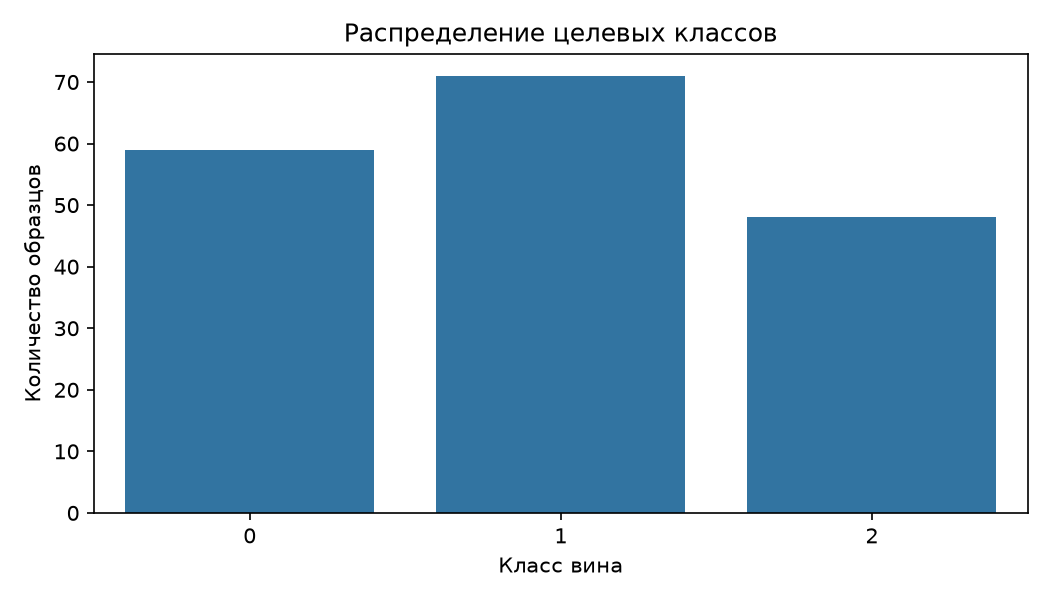
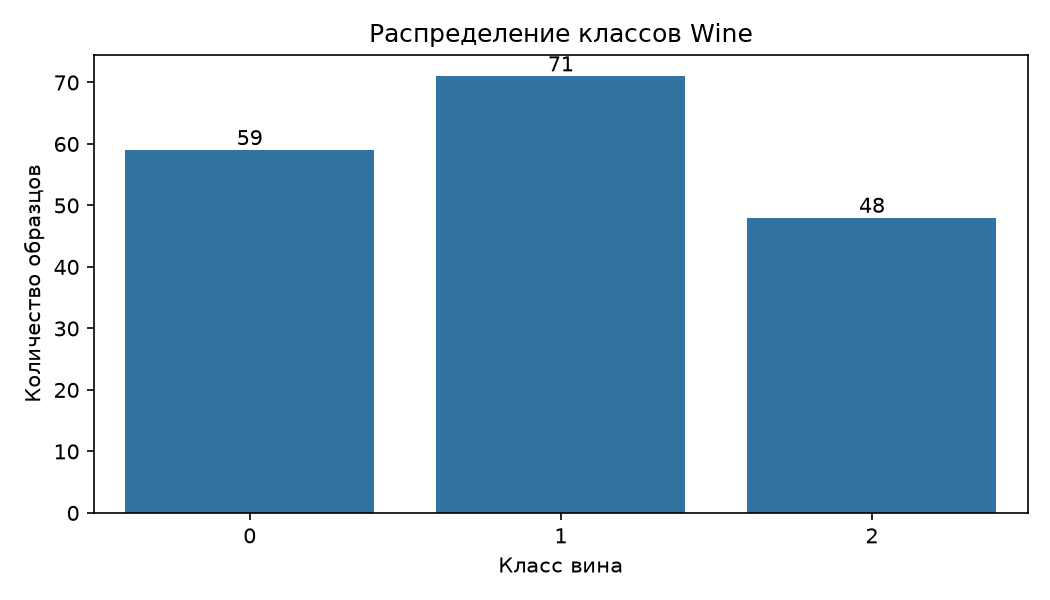
improve: expand lab1 EDA report

diff --git a/src/eda.py b/src/eda.py
@@ -1,15 +1,17 @@
+from datetime import date
 from pathlib import Path
 
 import matplotlib
 
 matplotlib.use("Agg")
+
 import matplotlib.pyplot as plt
 import pandas as pd
 import seaborn as sns
 
 ROOT = Path(__file__).resolve().parents[1]
 DATA_FILE = ROOT / "data" / "raw" / "wine.csv"
-REPORT_DIR = ROOT / "reports" / "LAB1"
+REPORT_DIR = ROOT / "reports" / "Lab1"
 FIGURE_DIR = REPORT_DIR / "figures"
 
 
@@ -17,73 +19,229 @@ def main() -> None:
     REPORT_DIR.mkdir(parents=True, exist_ok=True)
     FIGURE_DIR.mkdir(parents=True, exist_ok=True)
 
-    df = pd.read_csv(DATA_FILE)
-    features = df.drop(columns=["target"])
-    target = df["target"]
+    if not DATA_FILE.exists():
+        raise FileNotFoundError(f"Не найден файл датасета: {DATA_FILE}")
 
-    # Общая статистика признаков
-    stats = features.describe().T
-    stats["missing"] = features.isna().sum()
-    stats["n_unique"] = features.nunique()
-    stats["target_correlation"] = df.corr(numeric_only=True)["target"].drop("target")
+    df = pd.read_csv(DATA_FILE)
+
+    if "target" not in df.columns:
+        raise ValueError("В датасете отсутствует столбец target.")
+
+    features = df.drop(columns="target")
+    target = df["target"]
+    numeric_features = features.select_dtypes(include="number")
+
+    if numeric_features.empty:
+        raise ValueError("В датасете нет числовых признаков для анализа.")
+
+    # 1. Общая статистика признаков
+    stats = numeric_features.describe().T
+    stats["missing"] = numeric_features.isna().sum()
+    stats["n_unique"] = numeric_features.nunique()
+    stats["target_correlation"] = numeric_features.corrwith(target)
     stats.to_csv(REPORT_DIR / "eda_stats.csv", index_label="feature")
 
-    # Распределение классов
+    missing_total = int(df.isna().sum().sum())
+    duplicate_rows = int(df.duplicated().sum())
     class_counts = target.value_counts().sort_index()
+    class_share = target.value_counts(normalize=True).sort_index() * 100
+
+    # 2. Распределение классов
     plt.figure(figsize=(7, 4))
-    sns.barplot(x=class_counts.index.astype(str), y=class_counts.values)
+    ax = sns.barplot(
+        x=class_counts.index.astype(str),
+        y=class_counts.values,
+    )
+    ax.bar_label(ax.containers[0], fmt="%.0f")
     plt.xlabel("Класс вина")
     plt.ylabel("Количество образцов")
-    plt.title("Распределение целевых классов")
+    plt.title("Распределение классов Wine")
     plt.tight_layout()
     plt.savefig(FIGURE_DIR / "class_distribution.png", dpi=150)
     plt.close()
 
-    # Масштабы признаков: среднее и стандартное отклонение
-    scale_stats = features.agg(["mean", "std"]).T.sort_values("std")
+    # 3. Масштабы признаков
+    scale_stats = numeric_features.agg(["mean", "std"]).T
+    scale_stats = scale_stats.sort_values("std")
+    scale_stats.to_csv(REPORT_DIR / "feature_scale_stats.csv", index_label="feature")
+
     plt.figure(figsize=(10, 7))
-    sns.barplot(x=scale_stats["std"], y=scale_stats.index)
+    ax = sns.barplot(
+        x=scale_stats["std"],
+        y=scale_stats.index,
+    )
+    ax.bar_label(ax.containers[0], fmt="%.2f", padding=3, fontsize=8)
     plt.xlabel("Стандартное отклонение")
     plt.ylabel("Признак")
-    plt.title("Разброс значений признаков Wine")
+    plt.title("Масштабы признаков Wine")
     plt.tight_layout()
     plt.savefig(FIGURE_DIR / "feature_scales.png", dpi=150)
     plt.close()
 
-    # Корреляционная матрица
+    # 4. Корреляции
+    corr = df.corr(numeric_only=True)
+
     plt.figure(figsize=(12, 9))
-    sns.heatmap(df.corr(numeric_only=True), cmap="coolwarm", center=0)
-    plt.title("Корреляции признаков и целевого класса")
+    sns.heatmap(
+        corr,
+        cmap="coolwarm",
+        center=0,
+        vmin=-1,
+        vmax=1,
+    )
+    plt.title("Корреляционная матрица")
     plt.tight_layout()
     plt.savefig(FIGURE_DIR / "correlation_heatmap.png", dpi=150)
     plt.close()
 
-    class_share = target.value_counts(normalize=True).sort_index() * 100
-    scale_ratio = features.std().max() / features.std().replace(0, float("nan")).min()
+    # Сильнейшие корреляции между разными признаками
+    feature_corr = numeric_features.corr()
+    upper_mask = pd.DataFrame(
+        True,
+        index=feature_corr.index,
+        columns=feature_corr.columns,
+    )
+    for i, first in enumerate(feature_corr.columns):
+        for second in feature_corr.columns[: i + 1]:
+            upper_mask.loc[first, second] = False
 
-    report = f"""# Лабораторная работа 1 — EDA
+    pairs = feature_corr.where(upper_mask).stack().rename("correlation").reset_index()
+    pairs.columns = ["feature_1", "feature_2", "correlation"]
+    pairs["abs_correlation"] = pairs["correlation"].abs()
+    pairs = pairs.sort_values("abs_correlation", ascending=False)
+    pairs.head(10).to_csv(
+        REPORT_DIR / "top_correlations.csv",
+        index=False,
+    )
 
-## Датасет
-- Источник: `sklearn.datasets.load_wine`
-- Число строк: {df.shape[0]}
-- Число столбцов вместе с target: {df.shape[1]}
-- Число признаков: {features.shape[1]}
-- Пропущенных значений: {int(df.isna().sum().sum())}
+    # 5. Числа для выводов
+    std = numeric_features.std()
+    nonzero_std = std[std > 0]
+    scale_ratio = (
+        nonzero_std.max() / nonzero_std.min() if not nonzero_std.empty else float("nan")
+    )
 
-## Доли классов
-{class_share.to_string(float_format=lambda x: f"{x:.2f}%")}
+    target_corr = numeric_features.corrwith(target).dropna()
+    strongest_target_feature = target_corr.abs().idxmax()
+    strongest_target_corr = target_corr[strongest_target_feature]
 
-## Выводы
-1. Датасет содержит {df.shape[0]} наблюдений и {features.shape[1]} числовых признаков.
-2. Число пропущенных значений в таблице: {int(df.isna().sum().sum())}.
-3. Стандартные отклонения признаков различаются: отношение максимального к минимальному ненулевому стандартному отклонению составляет {scale_ratio:.2f}. Это подтверждает необходимость исследовать масштабирование признаков перед применением методов, чувствительных к масштабу, например kNN и SVM.
-4. Распределение классов показано на графике `figures/class_distribution.png`.
-5. Разброс признаков показан на графике `figures/feature_scales.png`; корреляции — на `figures/correlation_heatmap.png`.
+    strongest_pair = pairs.iloc[0] if not pairs.empty else None
+
+    class_table = pd.DataFrame(
+        {
+            "Количество": class_counts,
+            "Доля, %": class_share.round(2),
+        }
+    )
+    class_table.index.name = "Класс"
+    class_table_md = (
+        class_table.to_markdown()
+        if False
+        else (
+            "| Класс | Количество | Доля, % |\n"
+            "|---:|---:|---:|\n"
+            + "\n".join(
+                f"| {cls} | {int(class_counts.loc[cls])} | {class_share.loc[cls]:.2f} |"
+                for cls in class_counts.index
+            )
+        )
+    )
+
+    missing_by_column = df.isna().sum()
+    columns_with_missing = missing_by_column[missing_by_column > 0]
+    if columns_with_missing.empty:
+        missing_details = "Пропусков нет."
+    else:
+        missing_details = "\n".join(
+            f"- `{col}`: {int(count)}" for col, count in columns_with_missing.items()
+        )
+
+    if strongest_pair is not None:
+        pair_text = (
+            f"`{strongest_pair['feature_1']}` и "
+            f"`{strongest_pair['feature_2']}` "
+            f"(\u03c1 = {strongest_pair['correlation']:.3f})"
+        )
+    else:
+        pair_text = "Недостаточно данных для расчёта."
+
+    report = f"""# Лабораторная работа № 1 — EDA
+
+**Вариант:** 02 — Wine
+**Дата анализа:** {date.today().isoformat()}
+**Источник:** `sklearn.datasets.load_wine`
+**Файл:** `data/raw/wine.csv`
+
+## 1. Паспорт данных
+
+| Показатель | Значение |
+|---|---:|
+| Наблюдения | {len(df)} |
+| Всего столбцов | {df.shape[1]} |
+| Признаки без `target` | {features.shape[1]} |
+| Числовые признаки | {numeric_features.shape[1]} |
+| Целевых классов | {target.nunique()} |
+| Пропущенные значения | {missing_total} |
+| Полные дубликаты строк | {duplicate_rows} |
+
+## 2. Качество данных
+
+**Пропуски по столбцам:** {missing_details}
+
+Полные дубликаты учитываются по всем столбцам, включая `target`.
+Выбросы автоматически не удалялись: их наличие само по себе не означает ошибку данных.
+
+## 3. Распределение классов
+
+{class_table_md}
+
+![Распределение классов](figures/class_distribution.png)
+
+## 4. Масштабы признаков
+
+Отношение максимального стандартного отклонения к минимальному ненулевому: **{scale_ratio:.2f}**.
+
+Признак с наибольшим стандартным отклонением: **{std.idxmax()}** ({std.max():.3f}).
+
+Признак с наименьшим ненулевым стандартным отклонением: **{nonzero_std.idxmin() if not nonzero_std.empty else "нет"}** ({nonzero_std.min():.3f}).
+
+![Масштабы признаков](figures/feature_scales.png)
+
+## 5. Связи между признаками
+
+Наибольшая по модулю корреляция между парами признаков: {pair_text}.
+
+Наибольшая по модулю корреляция числового признака с `target`:
+**{strongest_target_feature}** (коэффициент корреляции Пирсона = {strongest_target_corr:.3f}).
+
+Корреляция не доказывает причинно-следственную связь. Числовой код `target` также не следует трактовать как непрерывную величину.
+
+![Корреляционная матрица](figures/correlation_heatmap.png)
+
+## 6. Выводы
+
+1. В наборе данных **{len(df)} наблюдений** и **{numeric_features.shape[1]} числовых признаков**.
+2. Обнаружено **{missing_total} пропущенных значений**; число полных дубликатов — **{duplicate_rows}**.
+3. Отношение стандартных отклонений равно **{scale_ratio:.2f}**, поэтому перед использованием kNN и SVM следует проверить стандартизацию признаков.
+4. Наибольшая корреляция с числовым кодом целевого класса у признака **{strongest_target_feature}**: **{strongest_target_corr:.3f}**; это описательная связь, а не доказательство причинности.
+5. Наиболее сильно связанные между собой признаки: {pair_text}. Полный список сохранён в `top_correlations.csv`.
+
+## 7. Артефакты и воспроизводимость
+
+- `eda_stats.csv` — описательная статистика и корреляция с `target`.
+- `feature_scale_stats.csv` — средние и стандартные отклонения признаков.
+- `top_correlations.csv` — десять наиболее сильных корреляций между признаками.
+- `figures/class_distribution.png` — распределение классов.
+- `figures/feature_scales.png` — масштабы признаков.
+- `figures/correlation_heatmap.png` — корреляционная матрица.
+
+Для повторного построения отчёта запустите `python src/eda.py` из корня проекта.
 """
+
     (REPORT_DIR / "lab1_report.md").write_text(report, encoding="utf-8")
 
     print(f"Данные: {df.shape[0]} строк, {df.shape[1]} столбцов")
-    print(f"Пропущено значений: {int(df.isna().sum().sum())}")
+    print(f"Пропущено значений: {missing_total}")
     print(f"Отчёт: {REPORT_DIR / 'lab1_report.md'}")
     print(f"Статистика: {REPORT_DIR / 'eda_stats.csv'}")
     print(f"Графики: {FIGURE_DIR}")

diff --git a/reports/LAB1/lab1_report.md b/reports/LAB1/lab1_report.md
@@ -1,21 +1,75 @@
-# Лабораторная работа 1 — EDA
+# Лабораторная работа № 1 — EDA
 
-## Датасет
-- Источник: `sklearn.datasets.load_wine`
-- Число строк: 178
-- Число столбцов вместе с target: 14
-- Число признаков: 13
-- Пропущенных значений: 0
+**Вариант:** 02 — Wine
+**Дата анализа:** 2026-10-26
+**Источник:** `sklearn.datasets.load_wine`
+**Файл:** `data/raw/wine.csv`
 
-## Доли классов
-target
-0   33.15%
-1   39.89%
-2   26.97%
+## 1. Паспорт данных
 
-## Выводы
-1. Датасет содержит 178 наблюдений и 13 числовых признаков.
-2. Число пропущенных значений в таблице: 0.
-3. Стандартные отклонения признаков различаются: отношение максимального к минимальному ненулевому стандартному отклонению составляет 2530.33. Это подтверждает необходимость исследовать масштабирование признаков перед применением методов, чувствительных к масштабу, например kNN и SVM.
-4. Распределение классов показано на графике `figures/class_distribution.png`.
-5. Разброс признаков показан на графике `figures/feature_scales.png`; корреляции — на `figures/correlation_heatmap.png`.
+| Показатель | Значение |
+|---|---:|
+| Наблюдения | 178 |
+| Всего столбцов | 14 |
+| Признаки без `target` | 13 |
+| Числовые признаки | 13 |
+| Целевых классов | 3 |
+| Пропущенные значения | 0 |
+| Полные дубликаты строк | 0 |
+
+## 2. Качество данных
+
+**Пропуски по столбцам:** Пропусков нет.
+
+Полные дубликаты учитываются по всем столбцам, включая `target`.
+Выбросы автоматически не удалялись: их наличие само по себе не означает ошибку данных.
+
+## 3. Распределение классов
+
+| Класс | Количество | Доля, % |
+|---:|---:|---:|
+| 0 | 59 | 33.15 |
+| 1 | 71 | 39.89 |
+| 2 | 48 | 26.97 |
+
+![Распределение классов](figures/class_distribution.png)
+
+## 4. Масштабы признаков
+
+Отношение максимального стандартного отклонения к минимальному ненулевому: **2530.33**.
+
+Признак с наибольшим стандартным отклонением: **proline** (314.907).
+
+Признак с наименьшим ненулевым стандартным отклонением: **nonflavanoid_phenols** (0.124).
+
+![Масштабы признаков](figures/feature_scales.png)
+
+## 5. Связи между признаками
+
+Наибольшая по модулю корреляция между парами признаков: `total_phenols` и `flavanoids` (ρ = 0.865).
+
+Наибольшая по модулю корреляция числового признака с `target`:
+**flavanoids** (коэффициент корреляции Пирсона = -0.847).
+
+Корреляция не доказывает причинно-следственную связь. Числовой код `target` также не следует трактовать как непрерывную величину.
+
+![Корреляционная матрица](figures/correlation_heatmap.png)
+
+## 6. Выводы
+
+1. В наборе данных **178 наблюдений** и **13 числовых признаков**.
+2. Обнаружено **0 пропущенных значений**; число полных дубликатов — **0**.
+3. Отношение стандартных отклонений равно **2530.33**, поэтому перед использованием kNN и SVM следует проверить стандартизацию признаков.
+4. Наибольшая корреляция с числовым кодом целевого класса у признака **flavanoids**: **-0.847**; это описательная связь, а не доказательство причинности.
+5. Наиболее сильно связанные между собой признаки: `total_phenols` и `flavanoids` (ρ = 0.865). Полный список сохранён в `top_correlations.csv`.
+
+## 7. Артефакты и воспроизводимость
+
+- `eda_stats.csv` — описательная статистика и корреляция с `target`.
+- `feature_scale_stats.csv` — средние и стандартные отклонения признаков.
+- `top_correlations.csv` — десять наиболее сильных корреляций между признаками.
+- `figures/class_distribution.png` — распределение классов.
+- `figures/feature_scales.png` — масштабы признаков.
+- `figures/correlation_heatmap.png` — корреляционная матрица.
+
+Для повторного построения отчёта запустите `python src/eda.py` из корня проекта.
